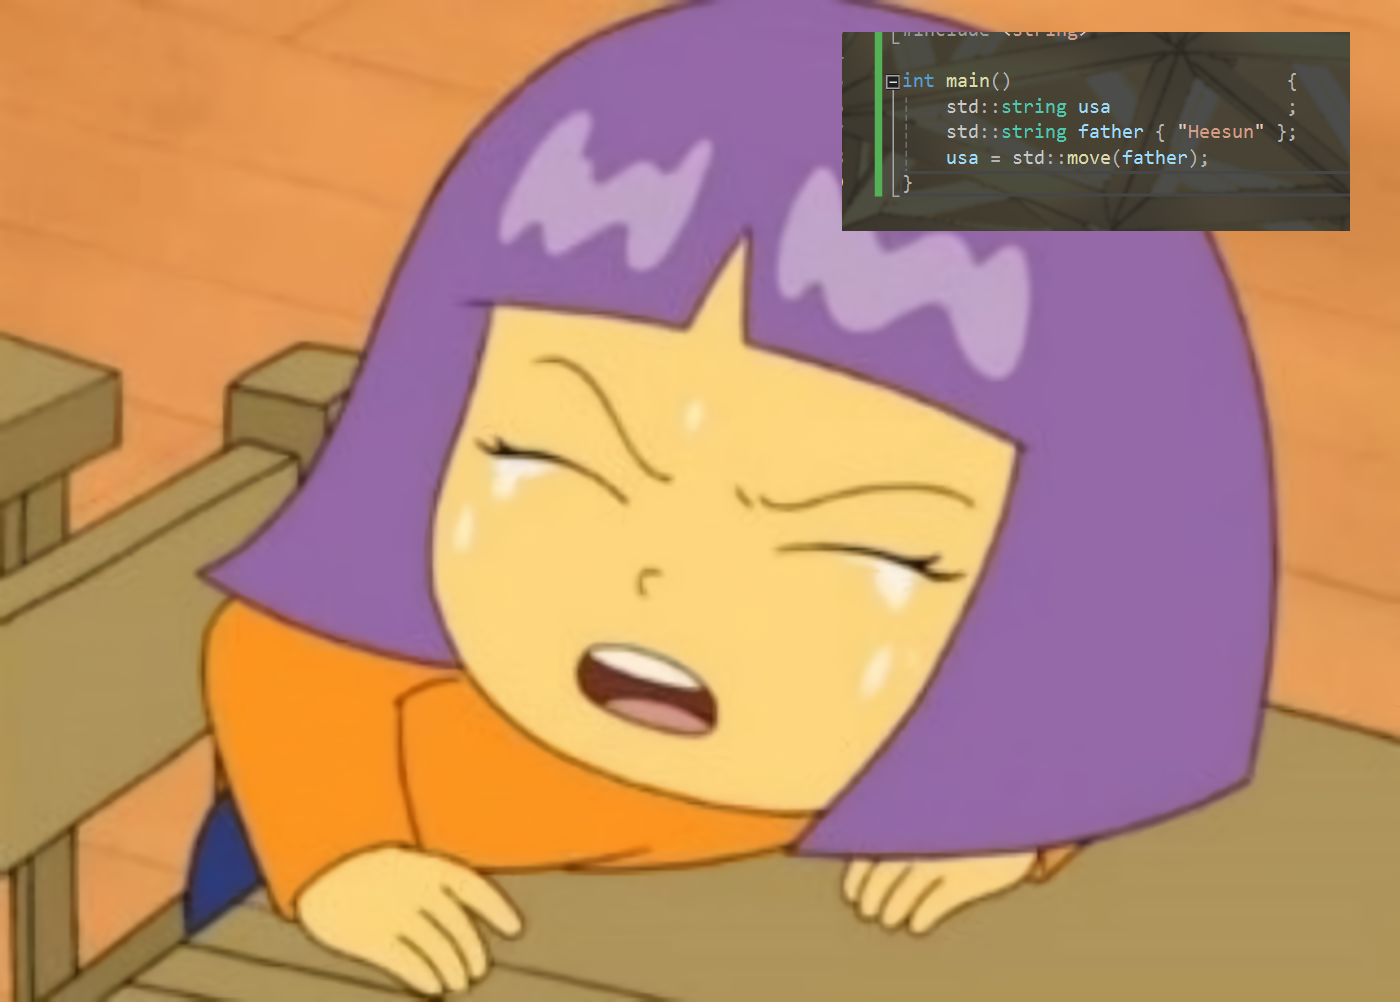
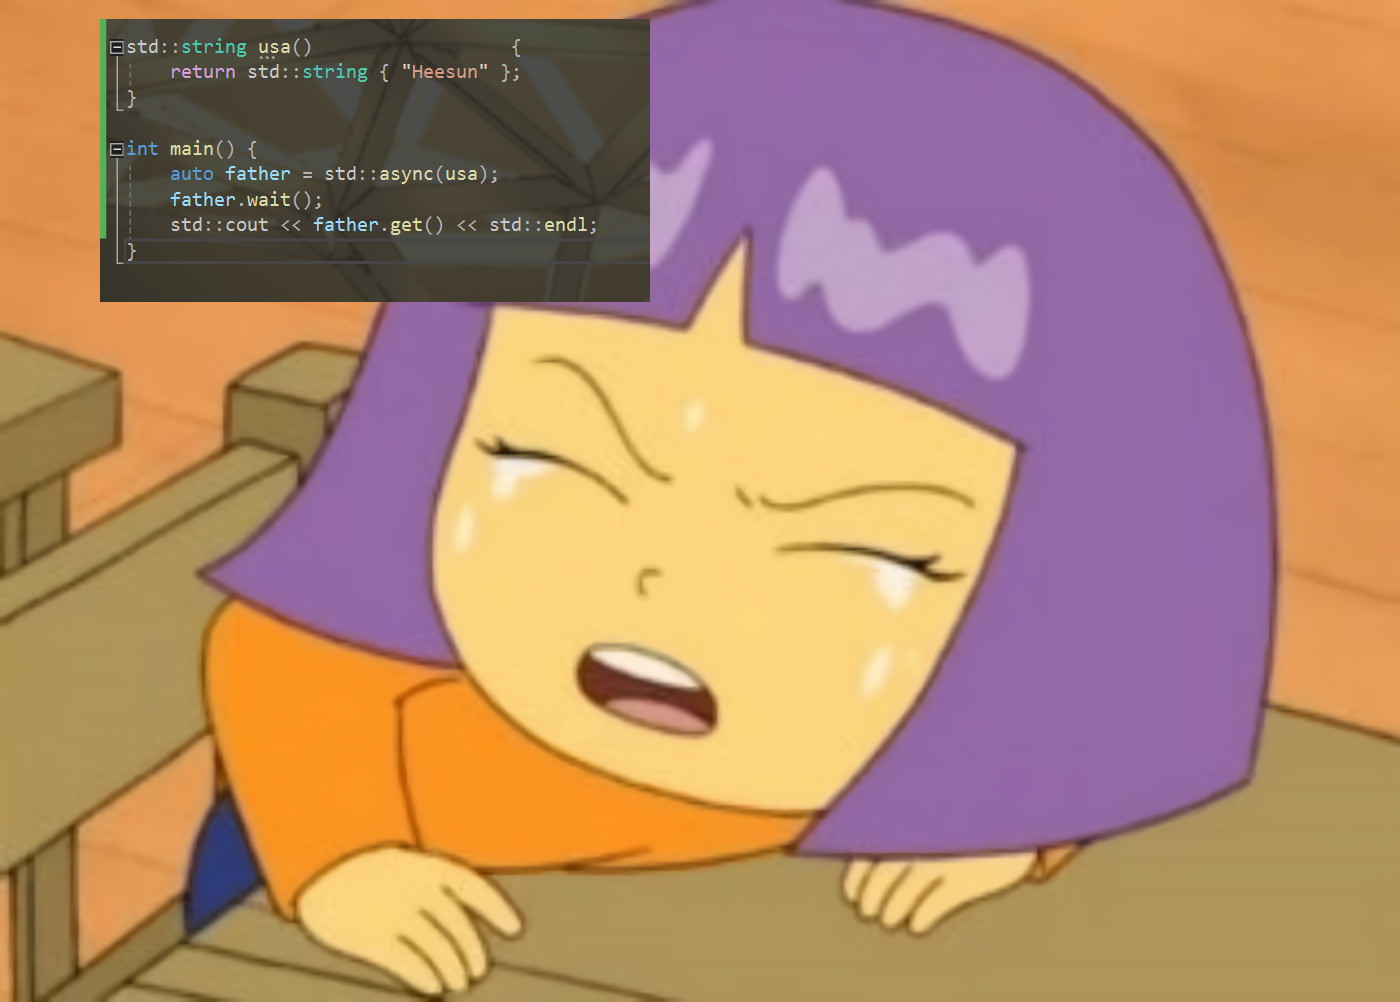
Heesun Father went to Heaven not USA

Changed region(s): [[0.0614, 0.0, 0.4914, 0.3094], [0.5836, 0.0309, 0.9829, 0.2475]]

diff --git a/README.md b/README.md
@@ -18,5 +18,6 @@
 # Introduction to C++ Programming
 
 ---
-![father_usa](father_usa.png)
-![your_father](canvas.png)
+![no_father](no_father.png)
+![father_usa](father_usa.png) 
+![father_heaven](father_heaven.png)
